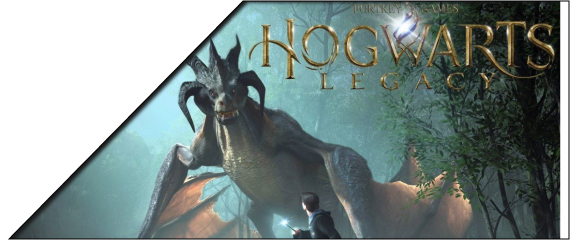
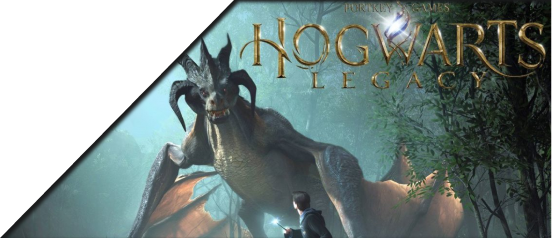
Adds trial card on mobile home and fixes size home

diff --git a/entrega2/css/styles.css b/entrega2/css/styles.css
@@ -500,6 +500,7 @@ footer{
 .footer-returns{
     grid-area:returns; 
     padding-top:7px;
+    width: 47%;
 }
 
 
@@ -1439,6 +1440,44 @@ form div {
     background-color: #14243B;
     filter: drop-shadow(4px 5px 4px rgb(26, 72, 114, 0.62));
 }
+.home-card-trial, .home-card-new {
+    display: block;
+    position: absolute;
+    top: -12px;
+    left: -1px;
+    width: 63px;
+    height: 23px;
+    line-height: 50px;
+    text-align: initial;
+    transform:rotate(2deg) skewY(320deg);
+    padding-left: 11px;
+
+}
+
+
+.home-card-trial > p, .home-card-new > p{
+    transform: skewX(198deg) rotate(716deg);
+    position: absolute;
+    left: 2px;
+    top: -12px;
+    font-size: 10px;
+    font-weight: bold;
+
+}
+
+.home-card-trial > p{
+    left:10px;
+}
+
+.home-card-trial {
+    background-color: #E5770E;
+    color:#040B14;
+}
+
+.home-card-new {
+    background-color: #3272AC;
+    color:#E9EFF3;
+}
 .home-carrousel-display{
     gap: 9px;
     margin:0px 3px 0px 3px;
@@ -1497,31 +1536,6 @@ form div {
     left: -13px
 }
 
-.home-card-trial,.home-card-new{
-    height: 28px;
-    width: 63px;
-    transform: skewX(114deg) rotate(41deg);
-    position: fixed;
-    bottom: 244px;
-    right: 120px;
-}
-
-.home-card-trial{
-    background-color: #E5770E;
-}
-
-.home-card-new{
-    background-color: #3272AC;
-    width: 33px;
-}
-
-.home-trial-text{
-    color:#2B2727;
-    position: relative;
-    left: -10px;
-    top: -310px;
-    font-size: 18px;
-}
 
 @media only screen and (min-width: 768px) {
 
@@ -1605,7 +1619,7 @@ form div {
 
     /*footer*/
     footer {
-        grid-template-columns: 278px 200px 220px 180px 180px 200px;
+        grid-template-columns: 278px 200px 220px 180px 160px 307px;
         grid-template-rows: 30px 230px 80px;
         grid-gap: 15px;
         grid-template-areas:
@@ -1855,17 +1869,22 @@ form div {
 
     }
 
-    .home h1, .home-advertising {
+    .home h1{
         padding: 15px 0px 15px 30px;
     }
 
     .home-advertising {
         display: flex;
-        width: 100%;
         height: 240px;
         margin-bottom:60px;
-    }
+        position: relative;
+        left: 70px;
+        top: 31px;
 
+    }
+    .home-advertising-container{
+        overflow: hidden;
+    }
     .home-advertising > img:first-child {
         width: 61%;
     }
@@ -1874,7 +1893,10 @@ form div {
         position: relative;
         left: -220px;
         width: 39%;
+    }
 
+    .home-advertising div:last-child:hover{
+        filter:drop-shadow(2px 4px 15px #579FE0);
     }
 
     .home-latest-releases {
@@ -1990,7 +2012,7 @@ form div {
         display: flex;
         flex-flow: row;
         align-items: center;
-        padding: 18px 6px;
+        padding: 18px 0px;
         overflow: hidden;
     }
 
@@ -2072,7 +2094,36 @@ form div {
         position: relative;
         left: 130px;
         top: 6px;
+        z-index: 1;
+        overflow: hidden;
     }
+
+      .home-carrousel-card button::after {
+        left: 0;
+        right: 0;
+        top: 0;
+        bottom: 0;
+        color:#040B14;
+        transform: scale(0, 0) rotate(-180deg);
+        content: "";
+         background: #f3851b;
+        position: absolute;
+        z-index: -1;
+        padding: 0.85em 0.75em;
+        display: block;
+        transition: all 0.3s ease;
+
+      }
+      .home-carrousel-card button:hover::after {
+        transform: scale(1,1) rotate(0deg);
+        transition: all 0.4s ease-out;
+
+
+      }
+      .home-carrousel-card button:hover{
+        color:#040B14;
+        box-shadow: 0 0 8px #f3851b;
+      }
 
     .home-carrousel-card button .material-icons.md-42 {
         font-size: 60px;
@@ -2101,24 +2152,17 @@ form div {
     }
 
     .home-card-trial, .home-card-new {
-      /*  height: 28px;
-        width: 63px;
-        transform: skewX(114deg) rotate(41deg);
-        position: fixed;
-        bottom: 244px;
-        right: 120px;*/
         display: block;
         position: absolute;
         top: -12px;
         left: -1px;
         width: 97px;
         height: 46px;
-        line-height: 50px;
-        text-align: initial;
-        transform:rotate(2deg) skewY(320deg);
+        transform:rotate(2deg) skewY(322deg);
         padding-left: 11px;
     
     }
+
     .home-card-trial > p, .home-card-new > p{
         transform: skewX(25deg) rotate(359deg);
         position: absolute;
@@ -2126,20 +2170,11 @@ form div {
         font-size: 18px;
         font-weight: bold;
         letter-spacing: -0.5px;
-
+        line-height: 71px;
     }
     .home-card-trial > p{
         font-size: 20px;
         left:19px;
-    }
-    .home-card-trial {
-        background-color: #E5770E;
-        color:#040B14;
-    }
-
-    .home-card-new {
-        background-color: #3272AC;
-        color:#E9EFF3;
     }
 
 
@@ -2636,8 +2671,6 @@ form div {
         right: 10px;
     }
 
-
-
     .modal {
         position: fixed;
         left: 0;
@@ -2743,6 +2776,5 @@ form div {
         border-radius: 15px;
         background-color:#02213F;
     }
-
 
 }

diff --git a/entrega2/index.html b/entrega2/index.html
@@ -107,16 +107,16 @@
     </header>
 
     <main class="home">
-
+       <div class="home-advertising-container">
         <section class="home-advertising">
-            <div class=>
+            <div>
                 <img src="img/advertising-1.png" alt="Electronic Arts">
             </div>
             <div>
-                <img src="img/Advertising.png" alt="Howgarts Legacy">
+                <a href="newGameRelease.html"><img src="img/Advertising.png" alt="Howgarts Legacy"></a>
             </div>
         </section>
-
+    </div>
         <section class="home-latest">
             <h1>Proximos lanzamientos</h1>
             <section class="home-latest-releases">
@@ -191,9 +191,7 @@
                             <h2>SubmergeBlock</h2>
                             <h4>$1.000</h4>
                             <h3>$400</h3>
-                            <button>Jugar<span class="material-icons md-42">arrow_right</span></button>
-                        <!--  <h3 class="home-trial-text">Trial</h3>
-                            <div class="home-card-trial"></div>-->  
+                            <a href="submergeBlock.html"> <button type="buton">Jugar<span class="material-icons md-42">arrow_right</span></button></a>
                             <aside class="home-card-trial"><p>Trial</p></aside>
 
                         </div>
